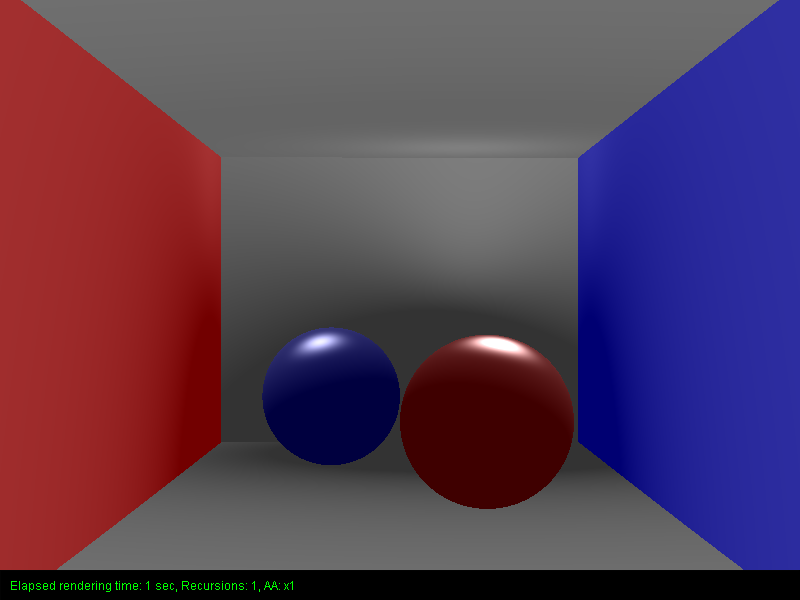
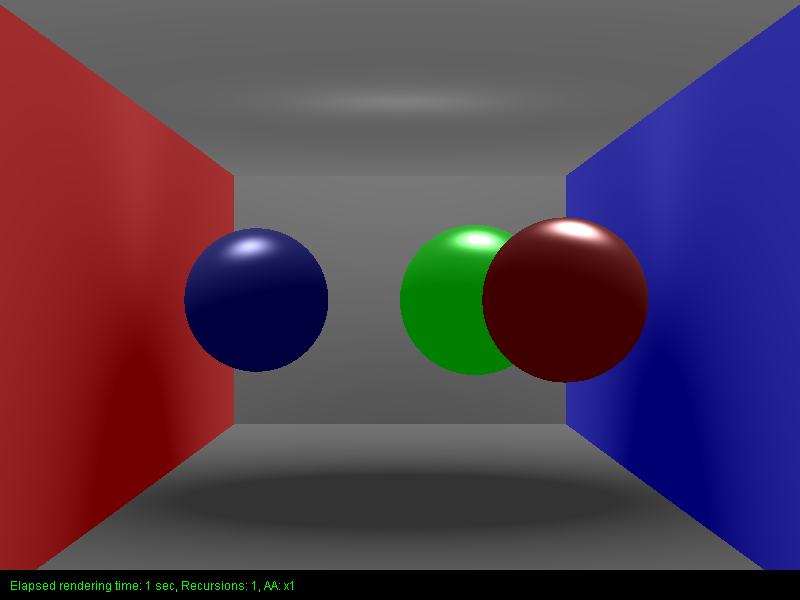
objects move independently

diff --git a/VCG_Raytracer/src/Main.java b/VCG_Raytracer/src/Main.java
@@ -95,6 +95,7 @@ public class Main {
     static Lambert lambertRed = new Lambert(RgbColor.RED, 0.9f, 0.3f);
     static Phong phongBlue = new Phong(RgbColor.BLUE, 0.5f, 0.3f, 0.5f, 15);
     static Phong phongRed = new Phong(RgbColor.RED, 0.5f, 0.3f, 0.5f, 15);
+    static Phong phongGreen = new Phong(RgbColor.GREEN, 0.5f, 0.3f, 0.5f, 15);
 
     /** DEBUG **/
     static final boolean SHOW_PARAM_LABEL = true;
@@ -135,14 +136,15 @@ public class Main {
     }
 
     private static void setupObjects(Scene renderScene) {
-        renderScene.createSphere(new Vec3(-2,2,2), 1f, phongBlue);
+        renderScene.createSphere(new Vec3(-2,0,2), 1f, phongBlue);
         renderScene.createSphere(new Vec3(2,0,5), 1f, phongRed);
+        renderScene.createSphere(new Vec3(1,0,3), 1f, phongGreen);
     }
 
     private static void setupCornellBox(Scene renderScene) {
-        renderScene.createPlane(new Vec3(1,0,-1), new Vec3(0,0,-1), lambertWhite);
-        renderScene.createPlane(new Vec3(0, 1.2f,0), new Vec3(0,1,0),lambertWhite);
-        renderScene.createPlane(new Vec3(0,-1.8f,0), new Vec3(0,-1,0),lambertWhite);
+        renderScene.createPlane(new Vec3(0,0,-2), new Vec3(0,0,-1), lambertWhite);
+        renderScene.createPlane(new Vec3(0, 1.5f,0), new Vec3(0,1,0),lambertWhite);
+        renderScene.createPlane(new Vec3(0,-1.5f,0), new Vec3(0,-1,0),lambertWhite);
         renderScene.createPlane(new Vec3(-2f,0,0), new Vec3(-1,0,0),lambertRed);
         renderScene.createPlane(new Vec3(2f,0,0), new Vec3(1,0,0),lambertBlue);
 

diff --git a/VCG_Raytracer/src/raytracer/Raytracer.java b/VCG_Raytracer/src/raytracer/Raytracer.java
@@ -143,11 +143,10 @@ public class Raytracer {
 
 				// Create the ray
 				cameraDirection = camera.calculateDirection(deltaX,-deltaY);
-				ray = new Ray(camera.getCameraPosition(), cameraDirection, 1);
 
 				// Find nearest shape in the scene
 				for (Shape shape : shapeList ) {
-					//System.out.println(shape.getClass().getSimpleName());
+					ray = new Ray(camera.getCameraPosition(), cameraDirection, 1);
 					// Invert matrix and ray for transformed shape
 					Matrix4x4 inverse = shape.getTransformMatrix().invert();
 					ray.setDirection(inverse.multVec3(ray.getDirection(), false));
@@ -160,8 +159,6 @@ public class Raytracer {
 					if (intersection.isHit()) {
 						if (intersection.getDistance() <= nearest) {
 							nearestShape = shape;
-							if (nearestShape.getClass().getSimpleName() == "Sphere")
-								System.out.println(nearestShape.getClass().getSimpleName());
 							nearest = intersection.getDistance();
 							tempIntersection = intersection;
 						}
